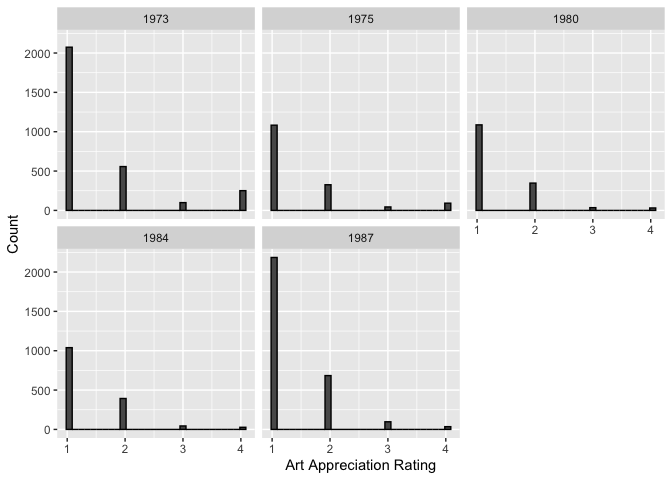
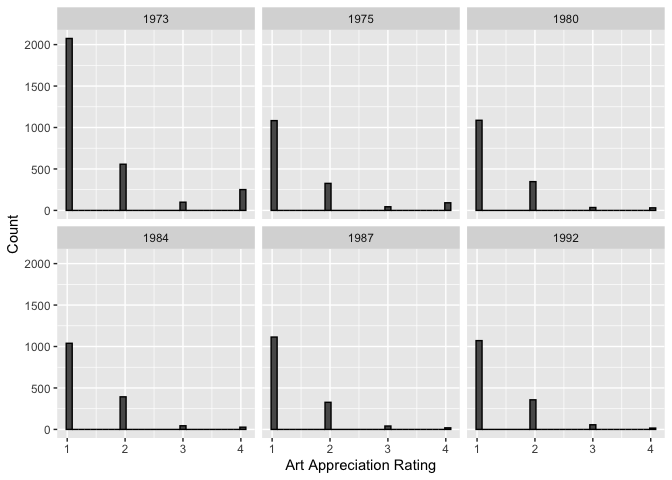
Add in graphs and t-tests

diff --git a/Portfolio1.md b/Portfolio1.md
@@ -16,6 +16,17 @@ suppressWarnings(library(tidyverse))
     ## ✖ dplyr::filter() masks stats::filter()
     ## ✖ dplyr::lag()    masks stats::lag()
 
+``` r
+library(psych)
+```
+
+    ## 
+    ## Attaching package: 'psych'
+    ## 
+    ## The following objects are masked from 'package:ggplot2':
+    ## 
+    ##     %+%, alpha
+
 In this portfolio I explore The Americans and Arts study. Which is “a
 series of studies measuring participation in and attitudes about the
 arts and arts in education.” The study took place during the years of
@@ -163,7 +174,7 @@ D1987 <- D1987 %>%
 D1992 <- D1992 %>%  
   select(CASEID, Q13I_7) %>%
   rename("Art_Appreciation" = "Q13I_7") %>%
-  mutate(Year = 1987) %>% 
+  mutate(Year = 1992) %>% 
   mutate(Art_Appreciation = as.character(Art_Appreciation)) %>%
 mutate(Art_Appreciation = dplyr::recode(Art_Appreciation,
                                  "(1) Teach for credit" = "1",
@@ -222,7 +233,6 @@ They look fairly similar over time. I’m going to dive deeper and look at
 the means. However, I do not expect this to look very different.
 
 ``` r
-# Group by mean of multiple columns
 art_means<-art_attitudes %>% group_by(Year) %>% 
   summarise(mean_rating=mean(Art_Appreciation,na.rm = TRUE),
             .groups = 'drop') %>%
@@ -236,3 +246,30 @@ art_means %>% ggplot(aes(x=Year,
 ```
 
 ![](Portfolio1_files/figure-gfm/art_attitudes-means-1.png)<!-- -->
+Interesting. There is a decline, but I’m curious if this is actually
+significant in anyway, because the y-scale has clearly been modified to
+show the differences. Let’s run a simple t-test.
+
+However, before we do this we must notice that the sample sizes for each
+year are quite high. Over 1,000. So it’ll be pretty easy for even
+trivial differences to be significant. Let’s randomly sample 300 from
+1973 and 1992.
+
+``` r
+DS1973 <- sample(D1973$Art_Appreciation, 300)
+DS1992 <- sample(D1992$Art_Appreciation, 300)
+
+t.test(DS1992,DS1973,alternative = "less")
+```
+
+    ## 
+    ##  Welch Two Sample t-test
+    ## 
+    ## data:  DS1992 and DS1973
+    ## t = -3.0017, df = 500.79, p-value = 0.001409
+    ## alternative hypothesis: true difference in means is less than 0
+    ## 95 percent confidence interval:
+    ##         -Inf -0.08268588
+    ## sample estimates:
+    ## mean of x mean of y 
+    ##  1.316667  1.500000
